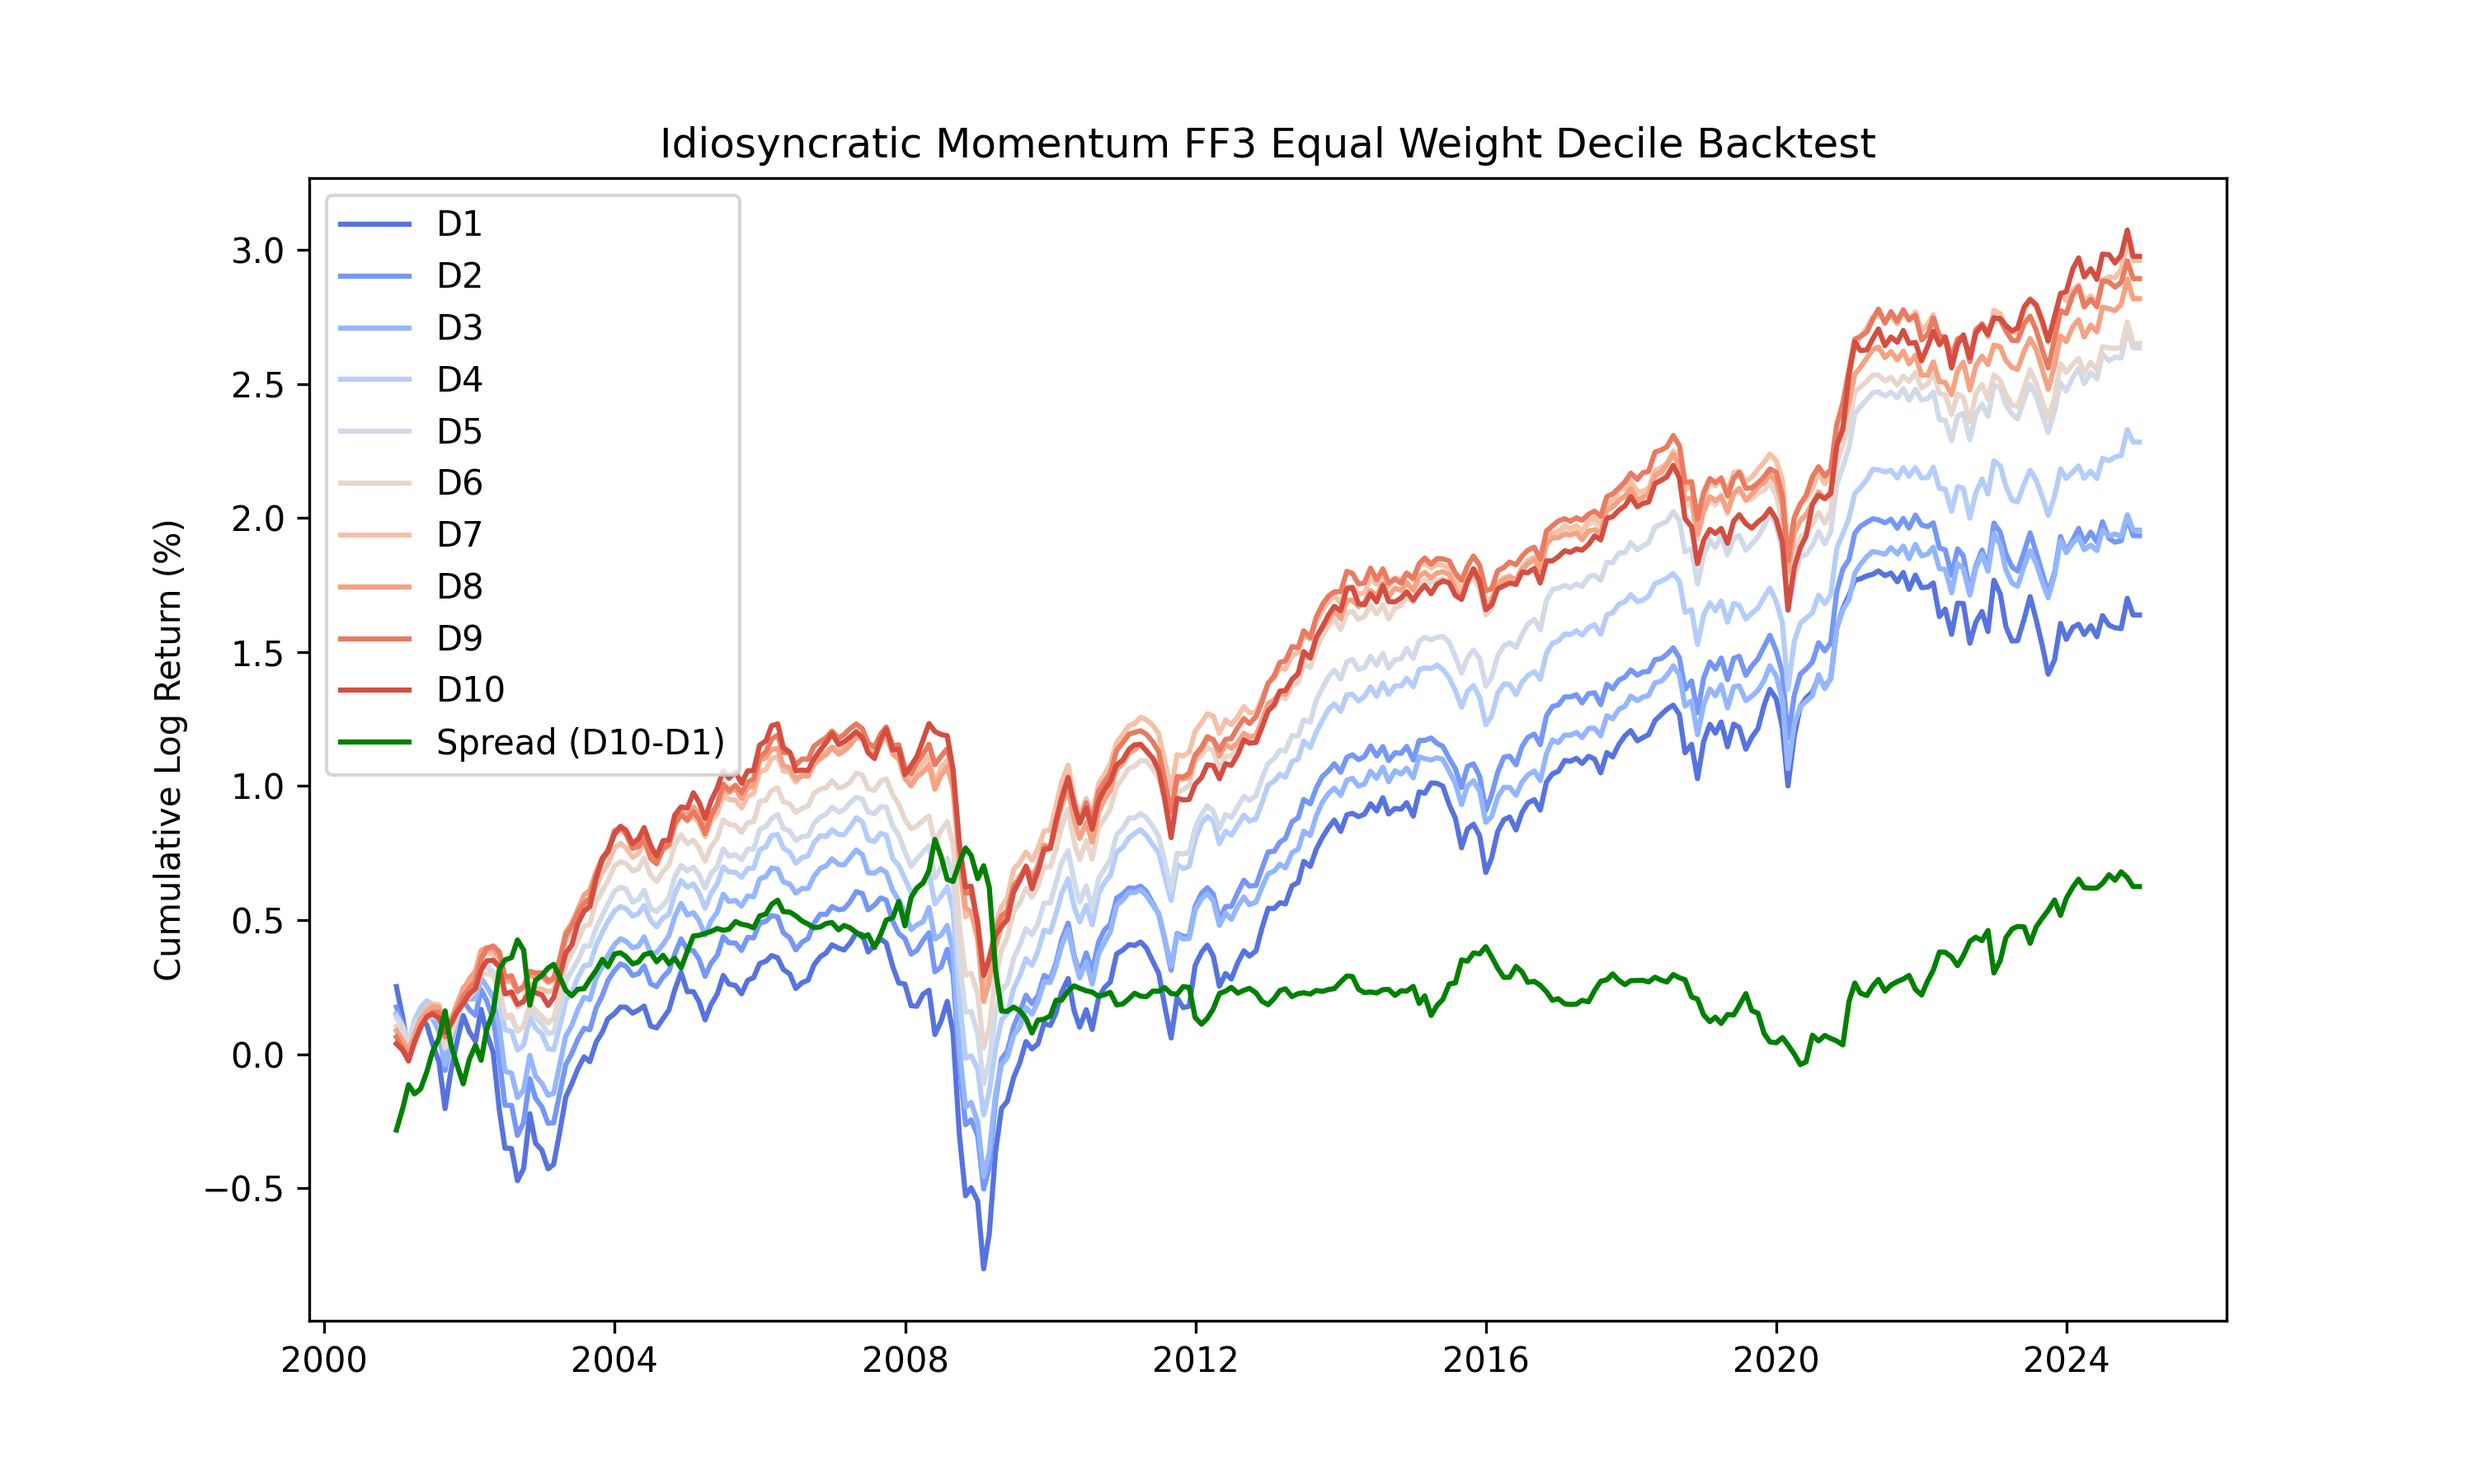
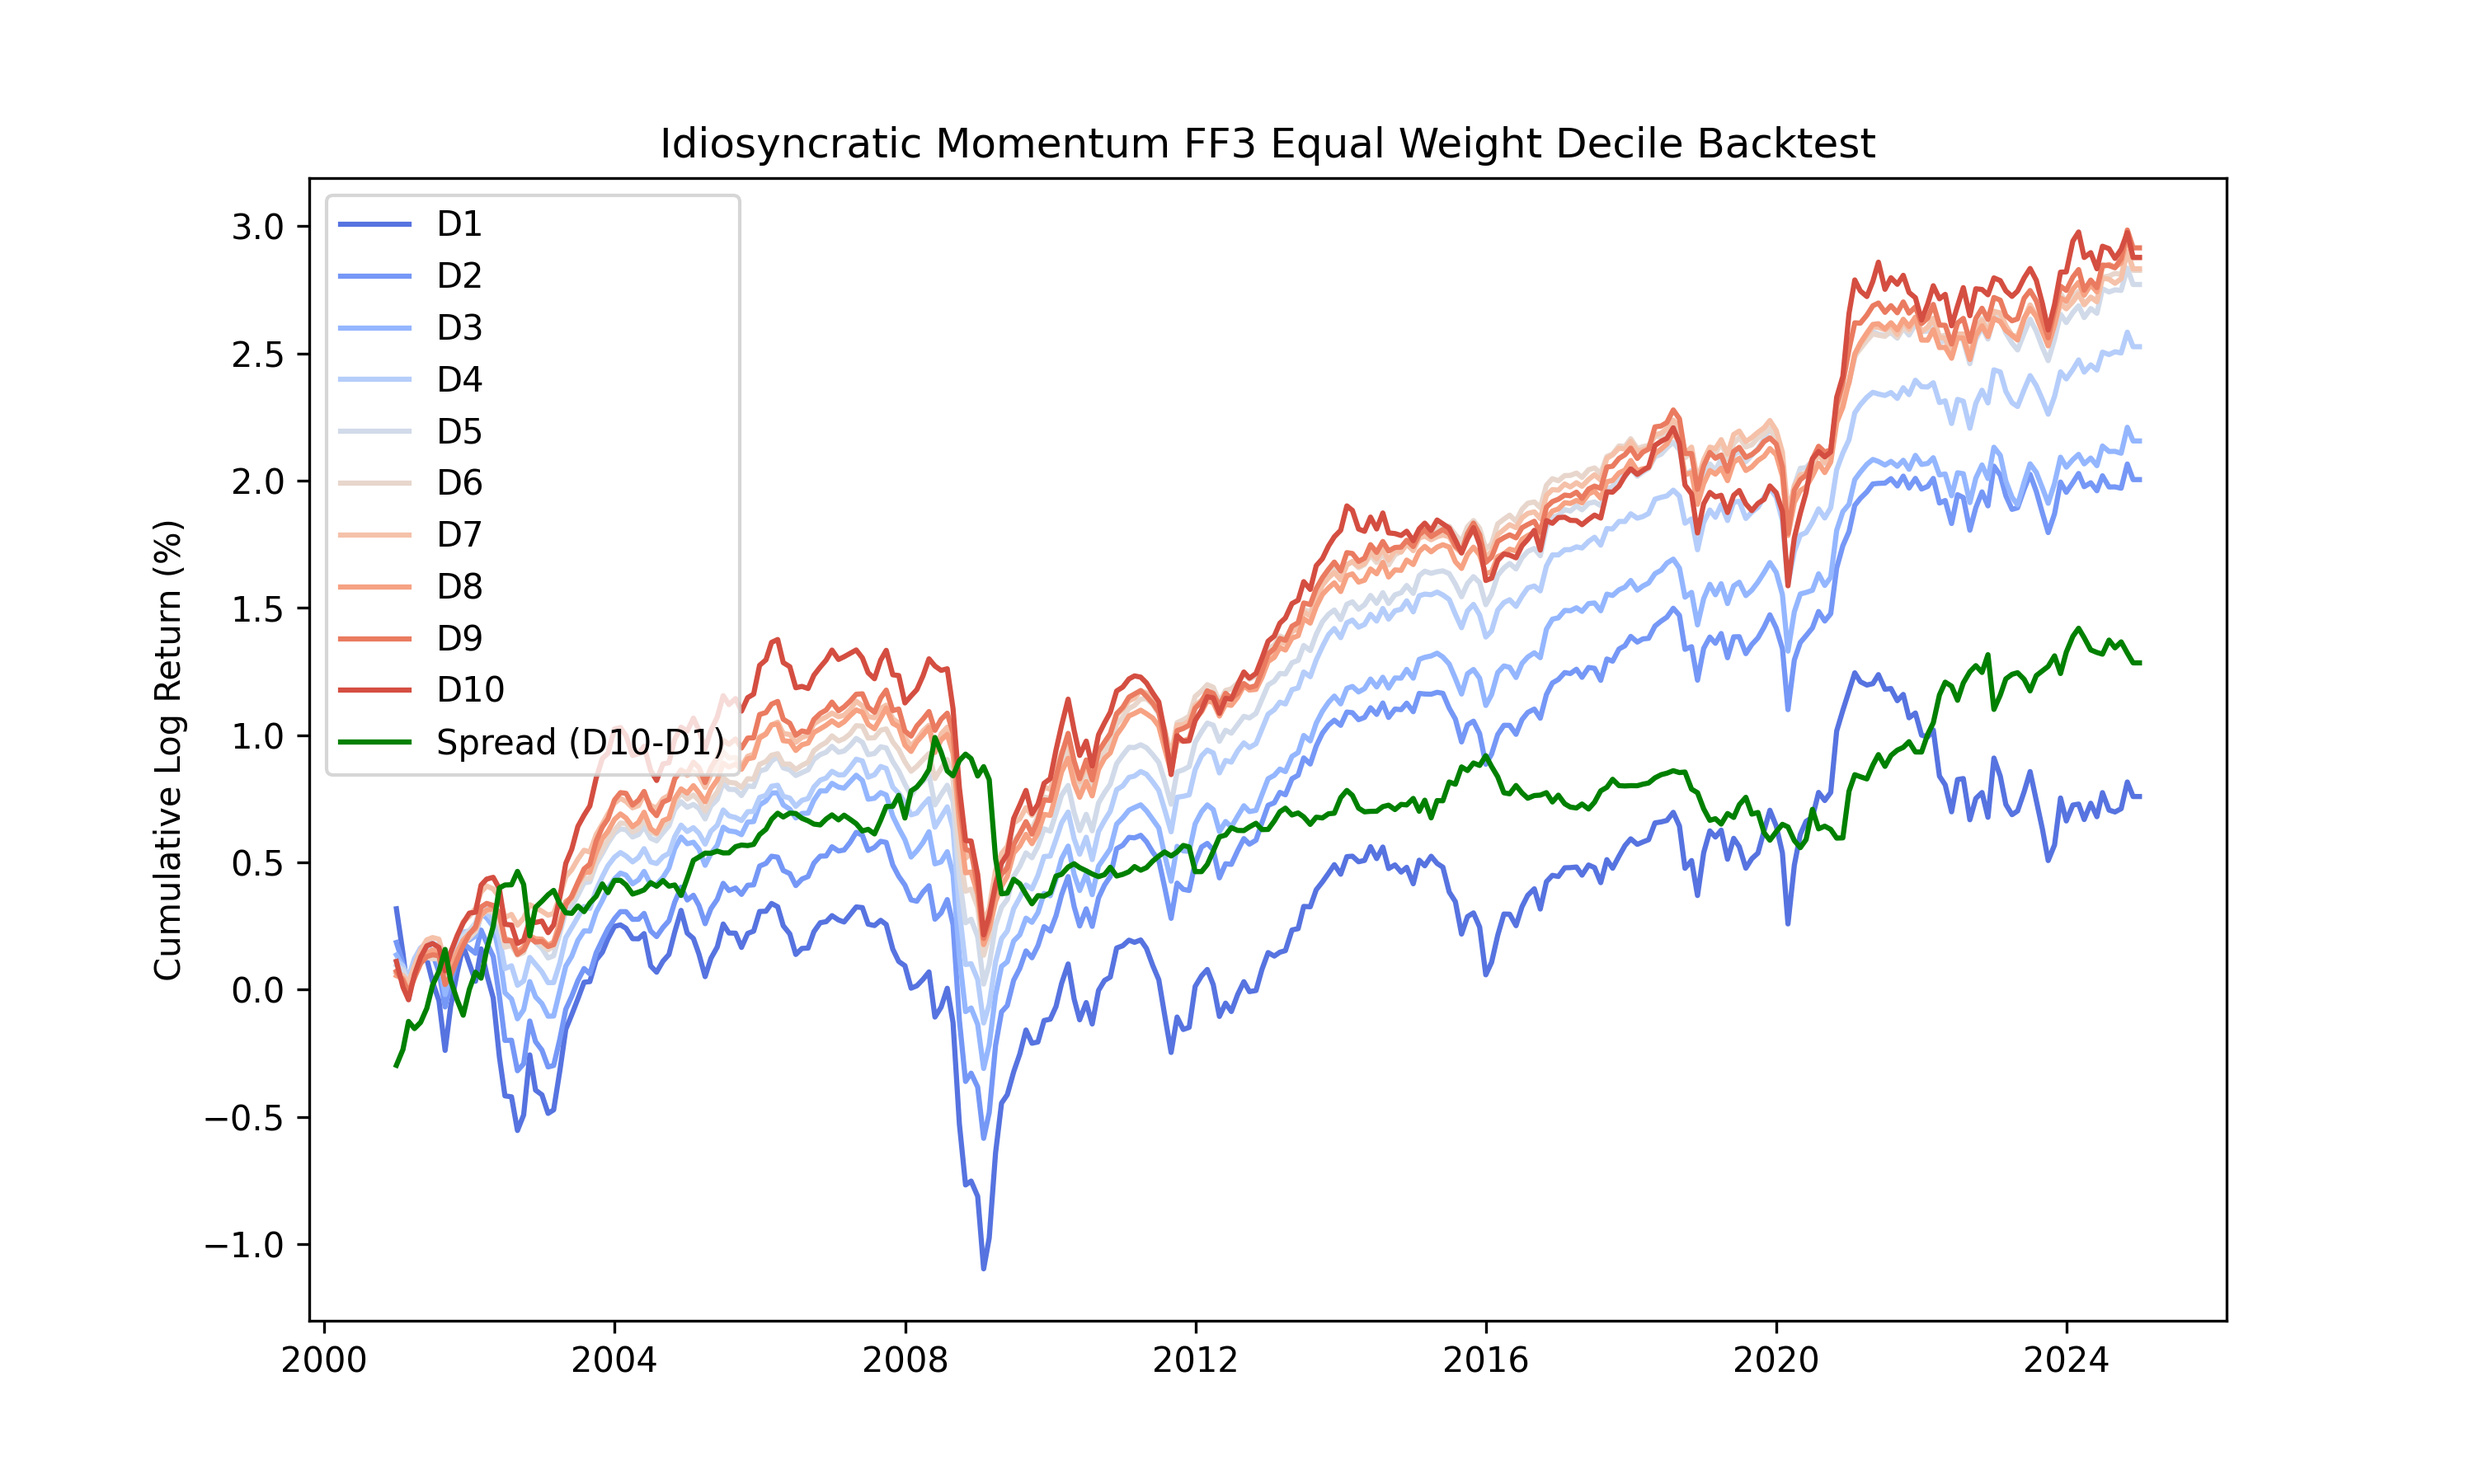
Updated results. Added non vol scaled idiosyncratic momentum.

diff --git a/research/signals.py b/research/signals.py
@@ -16,7 +16,7 @@ def momentum() -> Signal:
     )
 
 
-def idiosyncratic_momentum_ff3() -> Signal:
+def idio_mom_vol_scaled_ff3() -> Signal:
     residual = (
         pl.col("return")
         .sub("rf")
@@ -28,13 +28,47 @@ def idiosyncratic_momentum_ff3() -> Signal:
     )
 
     return Signal(
-        name=idiosyncratic_momentum_ff3.__name__,
+        name=idio_mom_vol_scaled_ff3.__name__,
         expr=(
             residual.rolling_sum(230)
             .truediv(residual.rolling_std(230))
             .shift(22)
             .over("permno")
-            .alias(idiosyncratic_momentum_ff3.__name__)
+            .alias(idio_mom_vol_scaled_ff3.__name__)
+        ),
+        columns=[
+            "permno",
+            "return",
+            "rf",
+            "alpha",
+            "mkt_rf",
+            "smb",
+            "hml",
+            "beta_mkt",
+            "beta_smb",
+            "beta_hml",
+        ],
+        lookback_days=252,
+    )
+
+def idio_mom_ff3() -> Signal:
+    residual = (
+        pl.col("return")
+        .sub("rf")
+        .sub(pl.col("alpha"))
+        .sub(pl.col("beta_mkt").mul("mkt_rf"))
+        .sub(pl.col("beta_smb").mul("smb"))
+        .sub(pl.col("beta_hml").mul("hml"))
+        .alias("residual")
+    )
+
+    return Signal(
+        name=idio_mom_ff3.__name__,
+        expr=(
+            residual.rolling_sum(230)
+            .shift(22)
+            .over("permno")
+            .alias(idio_mom_ff3.__name__)
         ),
         columns=[
             "permno",
@@ -56,10 +90,12 @@ def get_signal(name: str) -> Signal:
     match name:
         case "momentum":
             return momentum()
-        case "idiosyncratic_momentum_ff3":
-            return idiosyncratic_momentum_ff3()
+        case "idio_mom_vol_scaled_ff3":
+            return idio_mom_vol_scaled_ff3()
+        case "idio_mom_ff3":
+            return idio_mom_ff3()
         case _:
-            raise ValueError
+            raise ValueError(f"{name} not implemented")
 
 
 def construct_signals(data: pl.DataFrame, config: Config) -> pl.DataFrame:

diff --git a/research/__main__.py b/research/__main__.py
@@ -14,7 +14,7 @@ def cli():
 
 
 @cli.command()
-@click.argument("config_path", type=click.Path(exists=True, path_type=Path))
+@click.option("--config-path", type=click.Path(exists=True, path_type=Path), default="config.yml")
 def run(config_path: Path):
     """
     Run a backtest using the specified config file.
